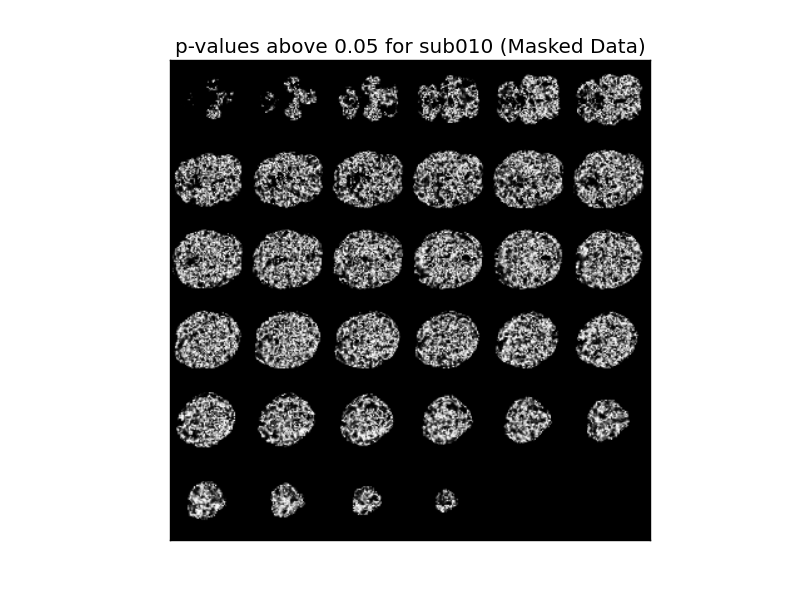
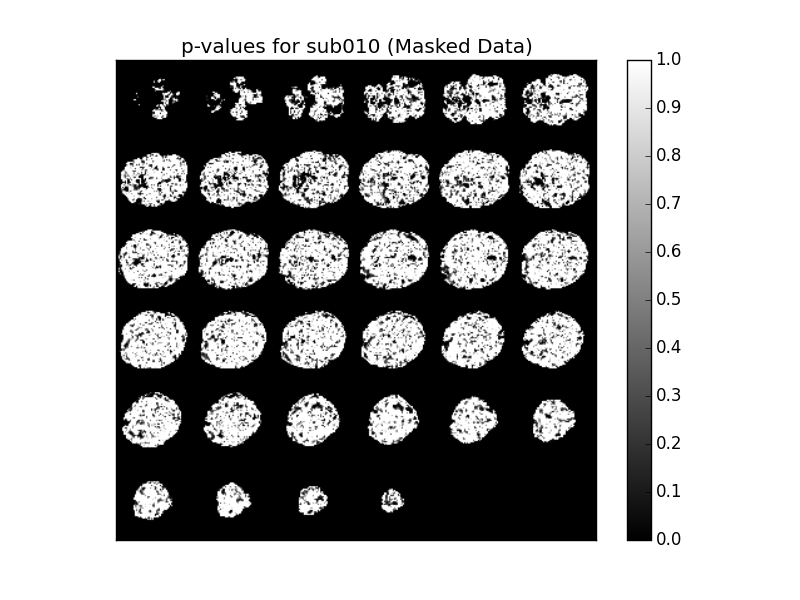
More paper and figure edits.

diff --git a/paper/main_sections/regression.tex b/paper/main_sections/regression.tex
@@ -10,23 +10,40 @@ features that we examined included a linear drift and some of the time
 courses' Fourier series and principal components.
 
 \par Linear regression assumes a linear relationship between a response 
-variable $Y$ and a design matrix of predictors $X$. Each element of $Y$ 
+vector $y$ and a design matrix of predictors $X$. Each element of $y$ 
 represents a single observed response, and each row of $X$ represents a 
 corresponding vector of predictor values. If including the intercept as a 
 term (as we have elected to do), the first column of the $X$ design matrix 
 should be a vector of $1$s. The linear model can then be expressed as: 
 
 \begin{equation}
-Y = X\beta + \epsilon
+y = X\beta + \epsilon
 \end{equation}
 
 \par It is further assumed that the errors $\epsilon_i$ for each observation 
 $i$ are independent and identically distributed with $N(0, \sigma^2)$, and 
-that the errors are independent of $X$. The coefficients $\beta$ can be 
-estimated with the closed-form solution:
+that the errors are independent of $X$. The vector of coefficients $\beta$ 
+with length equal to the number of predictors in $X$ can be estimated with 
+the closed-form solution:
 
 \begin{equation}
-\hat{\beta} =(X^T X)^{-1} Y^T 
+\hat{\beta} =(X^T X)^{-1} y
+\end{equation}
+
+\par In our case, we actually want to fit a linear model to each individual 
+voxel's time course. Matrix algebra provides a convenient solution. Instead of 
+considering the time course for each voxel individually as a single $y$ 
+vector, we can instead consider the voxel $\times$ time matrix $Y$. Our model 
+is then:
+
+\begin{equation}
+Y = X\beta + \epsilon
+\end{equation}
+
+and our $\beta$ estimates are then also a matrix: 
+
+\begin{equation}
+\hat{\beta} =(X^T X)^{-1} Y^T
 \end{equation}
 
 \par Even when $(X^T X)$ is not invertible, $\hat{\beta}$ can be estimated 

diff --git a/paper/main_sections/normality.tex b/paper/main_sections/normality.tex
@@ -36,11 +36,11 @@ when looking at the conclusions made by our hypothesis tests, one should
 exercise caution about the validity of those conjectures. 
 
 Figure \ref{fig:sw} compares the spatial distribution of the Shapiro-Wilk 
-``p-values'' above and below 0.05 for Subject 10's masked and unmasked data. 
-The unmasked figure is very difficult to interpret, but the masked figure does 
-suggest that while the spatial distribution of voxels with approximately 
-normal residuals is reasonably uniform in many regions, there are a few areas 
-that consistently have ``p-values'' below the 0.05 threshold. Examples of 
+``p-values'' for Subject 10's masked and unmasked data. The unmasked figure 
+is very difficult to interpret, but the masked figure does suggest that while 
+the spatial distribution of voxels with approximately normal residuals is 
+reasonably uniform in many regions, there are a few areas that consistently 
+have very low ``p-values'' at around or below the 0.05 threshold. Examples of 
 these regions for Subject 10 include a small area between the front and center 
 of the brain and a few spots near the sides. These observations are not 
 consistent across all subjects, however, so much of it may simply be due to 
@@ -59,8 +59,7 @@ noise.
 		\includegraphics[width=.8\linewidth]{../images/sub010swmasked.png} 
 	\caption{Using masked residuals.}
 \end{minipage}
-\caption{Subject 10's brain slices, with voxels colored by whether or not the 
-``p-values'' were above a threshold of 0.05 in the corresponding Shapiro-Wilk 
-test for normality.}
+\caption{Subject 10's brain slices, with voxels colored by the magnitude of the
+``p-value'' in the corresponding Shapiro-Wilk test for normality.}
 \label{fig:sw}
 \end{figure}

diff --git a/final/scripts/normality_final.py b/final/scripts/normality_final.py
@@ -66,23 +66,26 @@ for i in sub_list:
     mask_data = mask.get_data()
     
     masked_pvals = make_mask(sw_pvals, mask_data, fit=True)
+    masked_pvals[masked_pvals>1] = 1
     pvals_in_brain = sw_pvals.ravel()[masked_pvals.ravel() != 0]
     masked_prop.append(np.mean(pvals_in_brain > 0.05))
     
     if (i[-3:]=="010"): 
         # Save image plots of unmasked p-values for subject 10. 
         plt.imshow(present_3d(sw_pvals), cmap=plt.get_cmap('gray'))
+        plt.colorbar()
         plt.xticks([])
         plt.yticks([])
-        plt.title("p-values above 0.05 for " + i + " (Unmasked Data)")
+        plt.title("p-values for " + i + " (Unmasked Data)")
         plt.savefig(location_of_images+i+'sw.png')
         plt.close()
 
         # Save image plots of masked p-values for a single subject. 
         plt.imshow(present_3d(masked_pvals), cmap=plt.get_cmap('gray'))
+        plt.colorbar()
         plt.xticks([])
         plt.yticks([])
-        plt.title("p-values above 0.05 for " + i + " (Masked Data)")
+        plt.title("p-values for " + i + " (Masked Data)")
         plt.savefig(location_of_images+i+'swmasked.png')
         plt.close()
      

diff --git a/code/utils/scripts/normality_script.py b/code/utils/scripts/normality_script.py
@@ -91,21 +91,24 @@ mask_data = mask.get_data()
 
 # Get masked p-values. 
 masked_pvals = make_mask(sw_pvals, mask_data, fit=True)
+masked_pvals[masked_pvals>1] = 1
 pvals_in_brain = sw_pvals.ravel()[masked_pvals.ravel() != 0]
 print("Proportion of voxels with p-value above 0.05 (masked): "+str(np.mean(pvals_in_brain > 0.05)))
 
 # Compare the image plots of the brain slices with and without masking. 
 # Colors indicate whether the p-value for the voxel is above or below the 0.05 threshold. 
 plt.imshow(present_3d(sw_pvals), cmap=plt.get_cmap('gray'))
+plt.colorbar()
 plt.xticks([])
 plt.yticks([])
-plt.title("p-values above 0.05 for " + i + " (Unmasked Data)")
+plt.title("p-values for " + i + " (Unmasked Data)")
 plt.savefig(location_of_images+'sub001sw.png')
 plt.close()
 plt.imshow(present_3d(masked_pvals), cmap=plt.get_cmap('gray'))
+plt.colorbar()
 plt.xticks([])
 plt.yticks([])
-plt.title("p-values above 0.05 for " + i + " (Masked Data)")
+plt.title("p-values for " + i + " (Masked Data)")
 plt.savefig(location_of_images+'sub001swmasked.png')
 plt.close()
 
